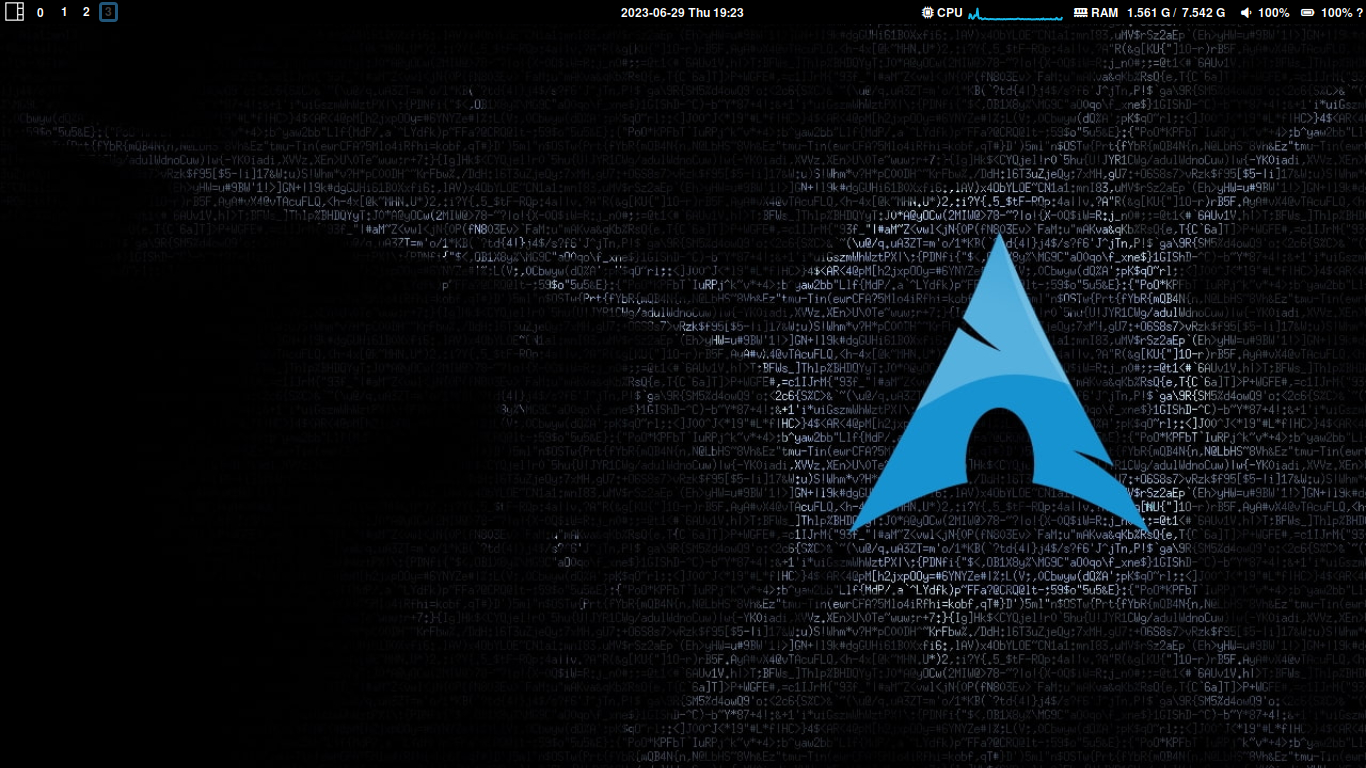
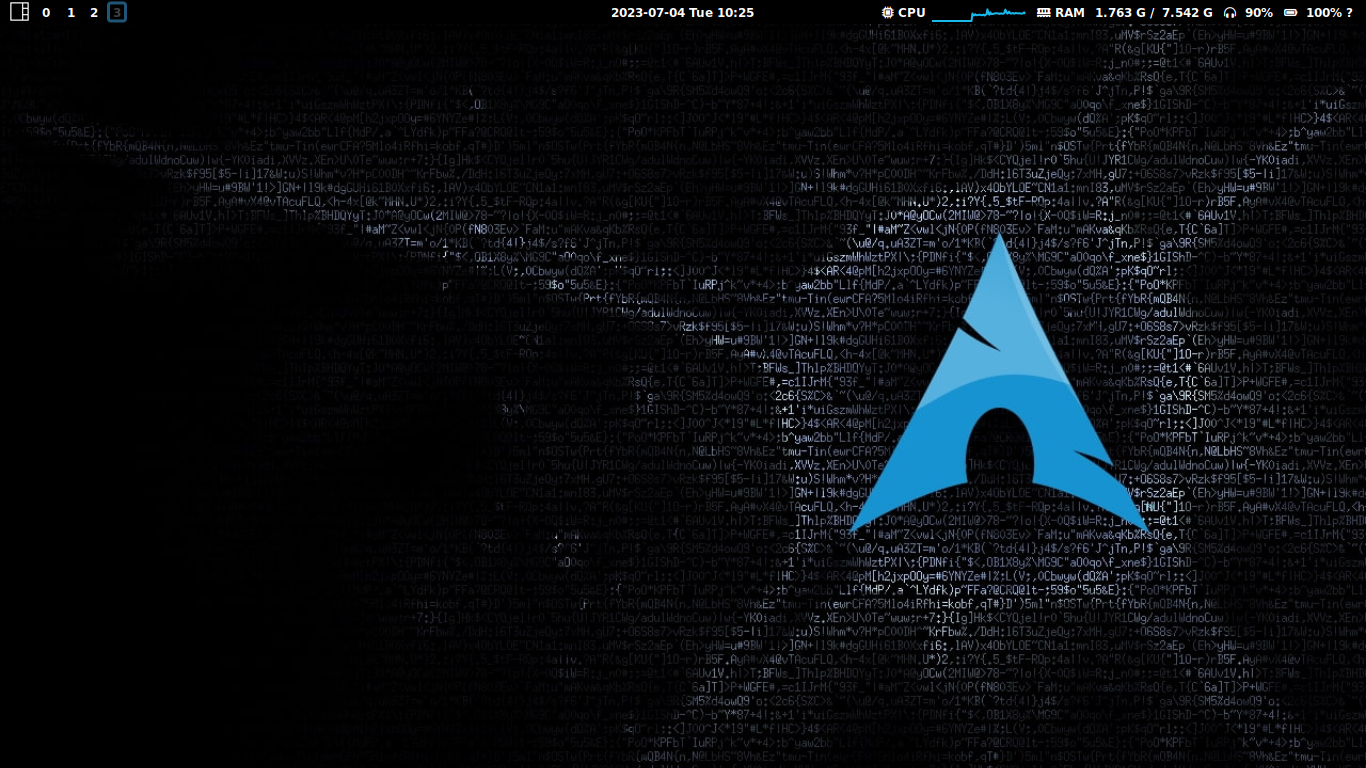
Deleted nvim files

Changed region(s): [[0.6457, 0.0, 1.0, 0.0312], [0.4305, 0.0, 0.5534, 0.0312], [0.0, 0.0, 0.0922, 0.0312]]

diff --git a/.config/qtile/config.py b/.config/qtile/config.py
@@ -40,8 +40,8 @@ alt = "mod1"
 terminal = "kitty"
 
 # Fontawesome Icons - https://fontawesome.com/icons 
-UNICODE_AUDIO = " "
-UNICODE_BATTERY = " "
+UNICODE_AUDIO = " "
+UNICODE_BATTERY = "  "
 UNICODE_CHARGING = " "
 UNICODE_CPU = " "
 UNICODE_RAM = " "
@@ -230,9 +230,6 @@ screens = [
                                  "Button1": lazy.spawn(CMD_OPEN_CALENDAR)
                                  }),
 
-                # System tray
-                widget.Systray(),
-
                 widget.Spacer(),
 
                 # CPU
@@ -255,17 +252,19 @@ screens = [
                     format='{MemUsed: .3f} {mm} / {MemTotal: .3f} {mm}',
                     measure_mem="G"),
 
-                widget.Spacer(10),
+                widget.Spacer(5),
 
                 # Volume
-                widget.Volume(
-                    fmt=UNICODE_AUDIO + " {}"),
+                widget.TextBox(
+                    fmt=UNICODE_AUDIO),
+
+                widget.Volume(),
 
                 widget.Spacer(5),
 
                 # Battery 
                 widget.Battery(
-                    format=UNICODE_BATTERY + " {percent:2.0%} {char}",
+                    format=UNICODE_BATTERY + "{percent:2.0%} {char}",
                     low_percentage=0.40,
                     notify_below=40,
                     discharge_char="",
